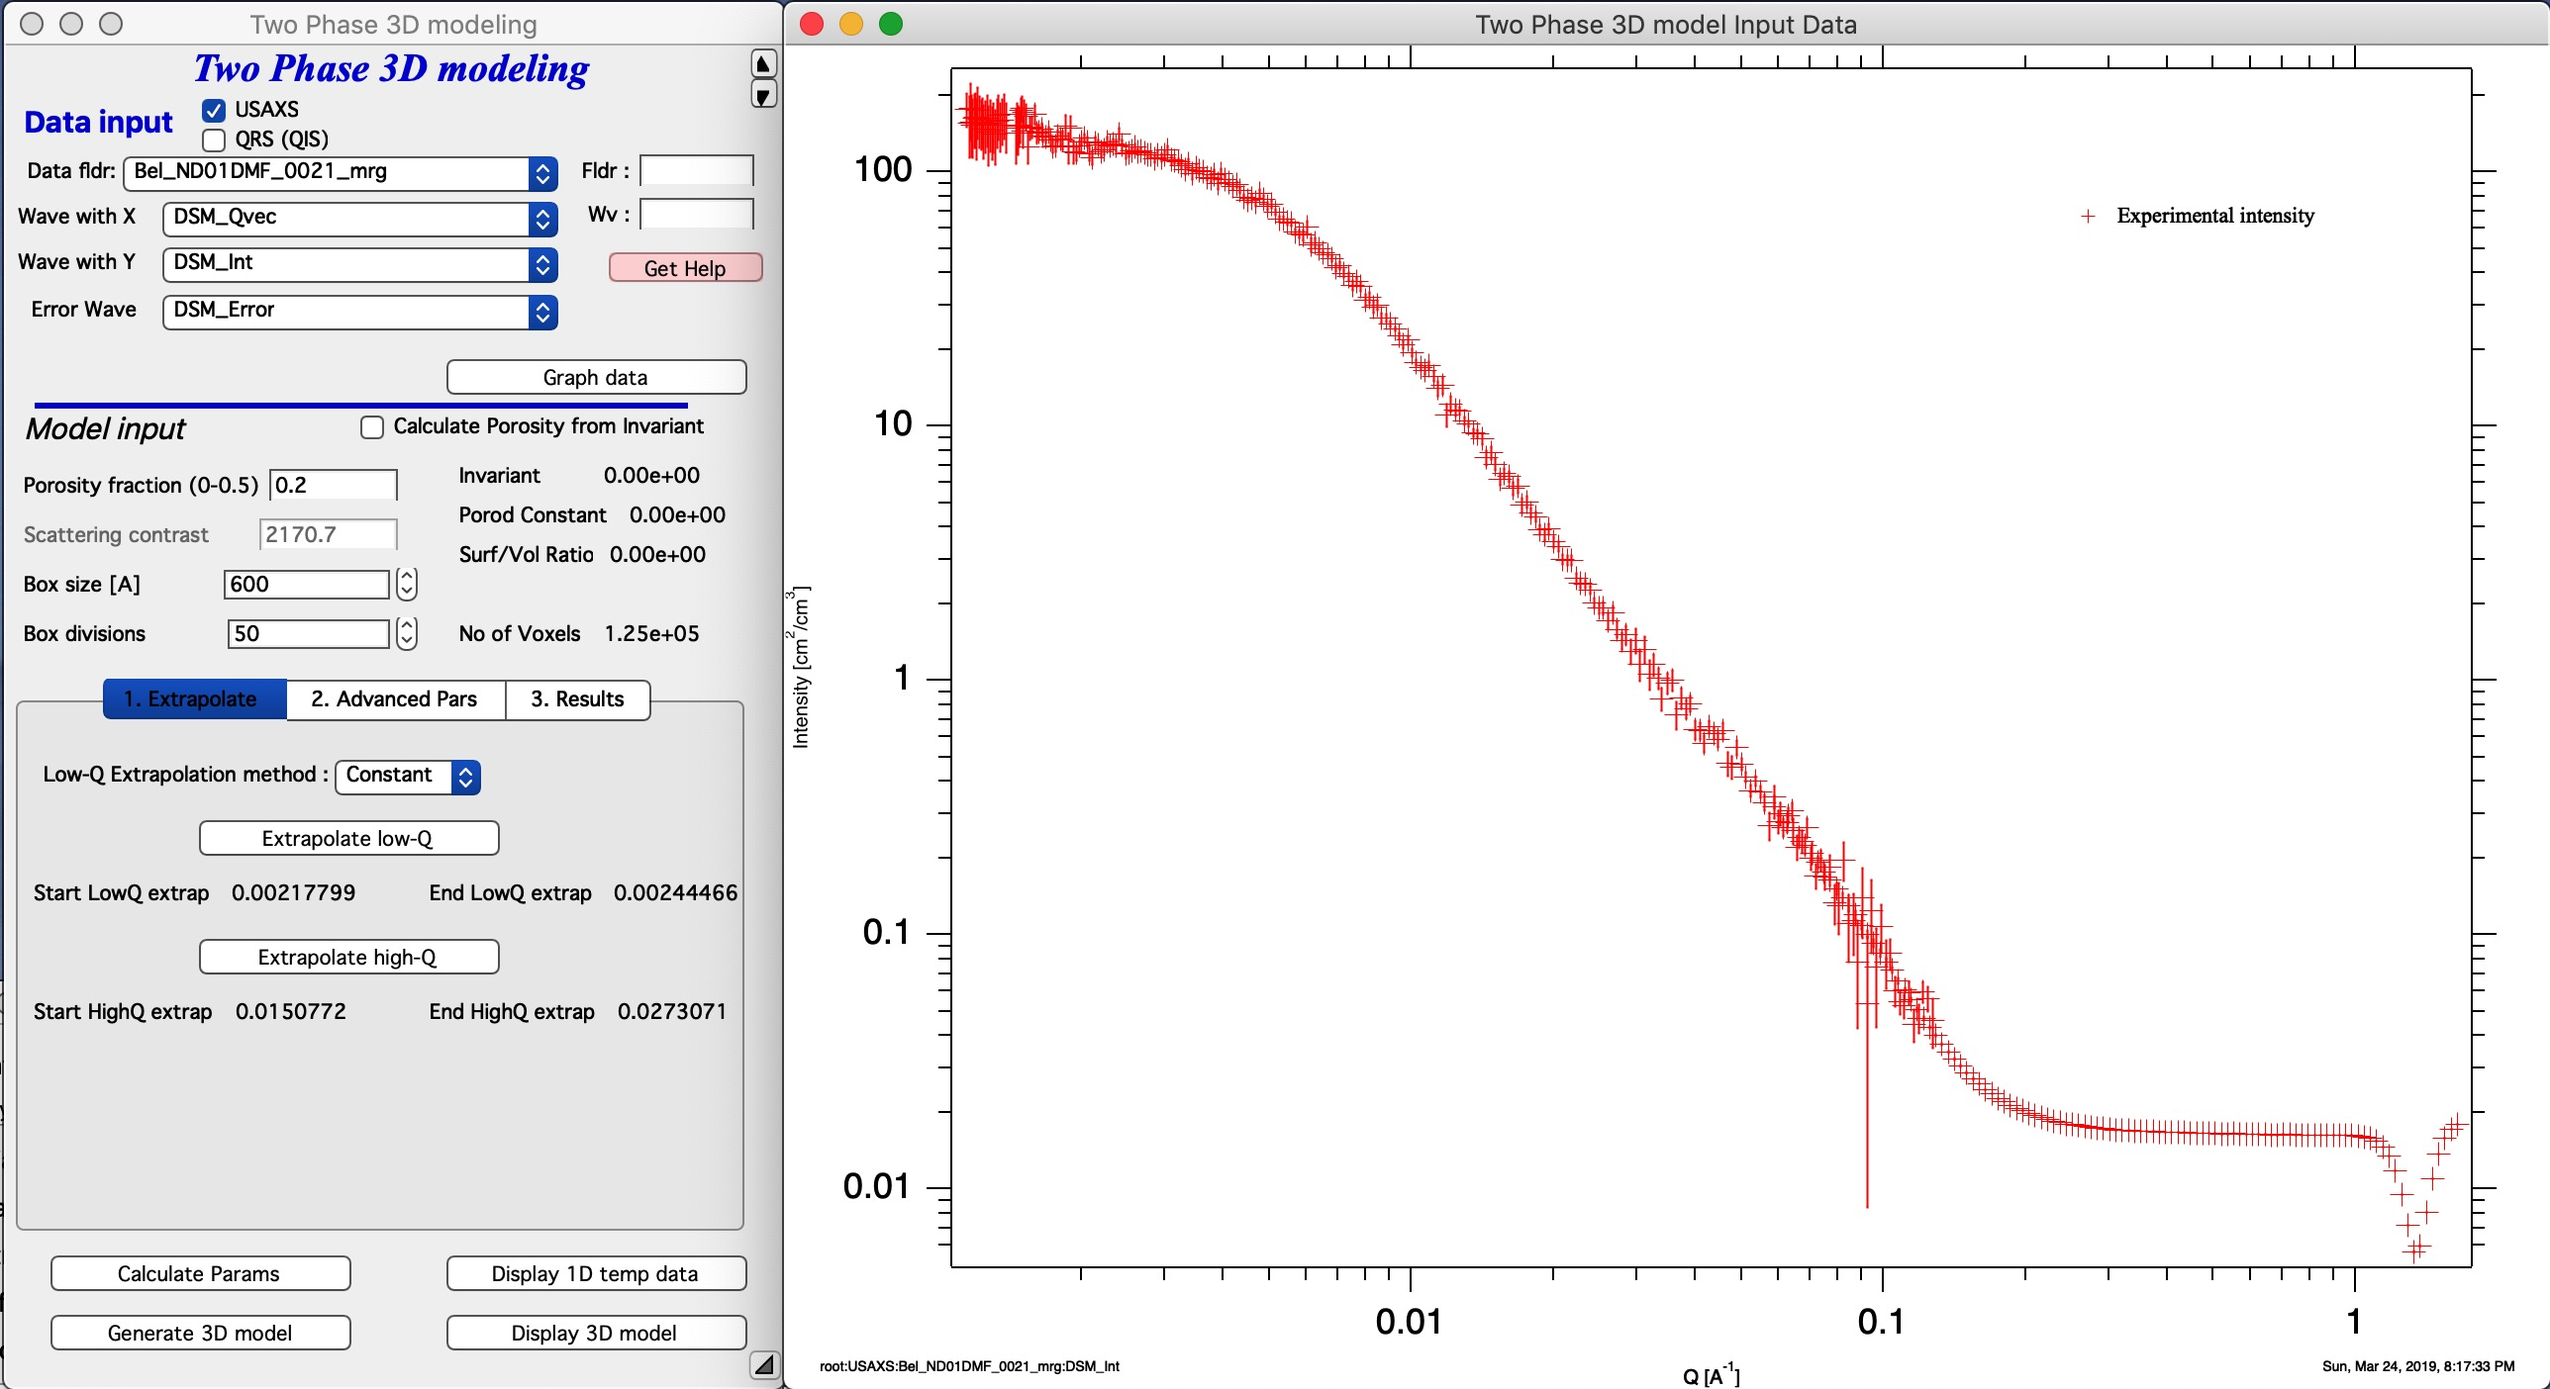
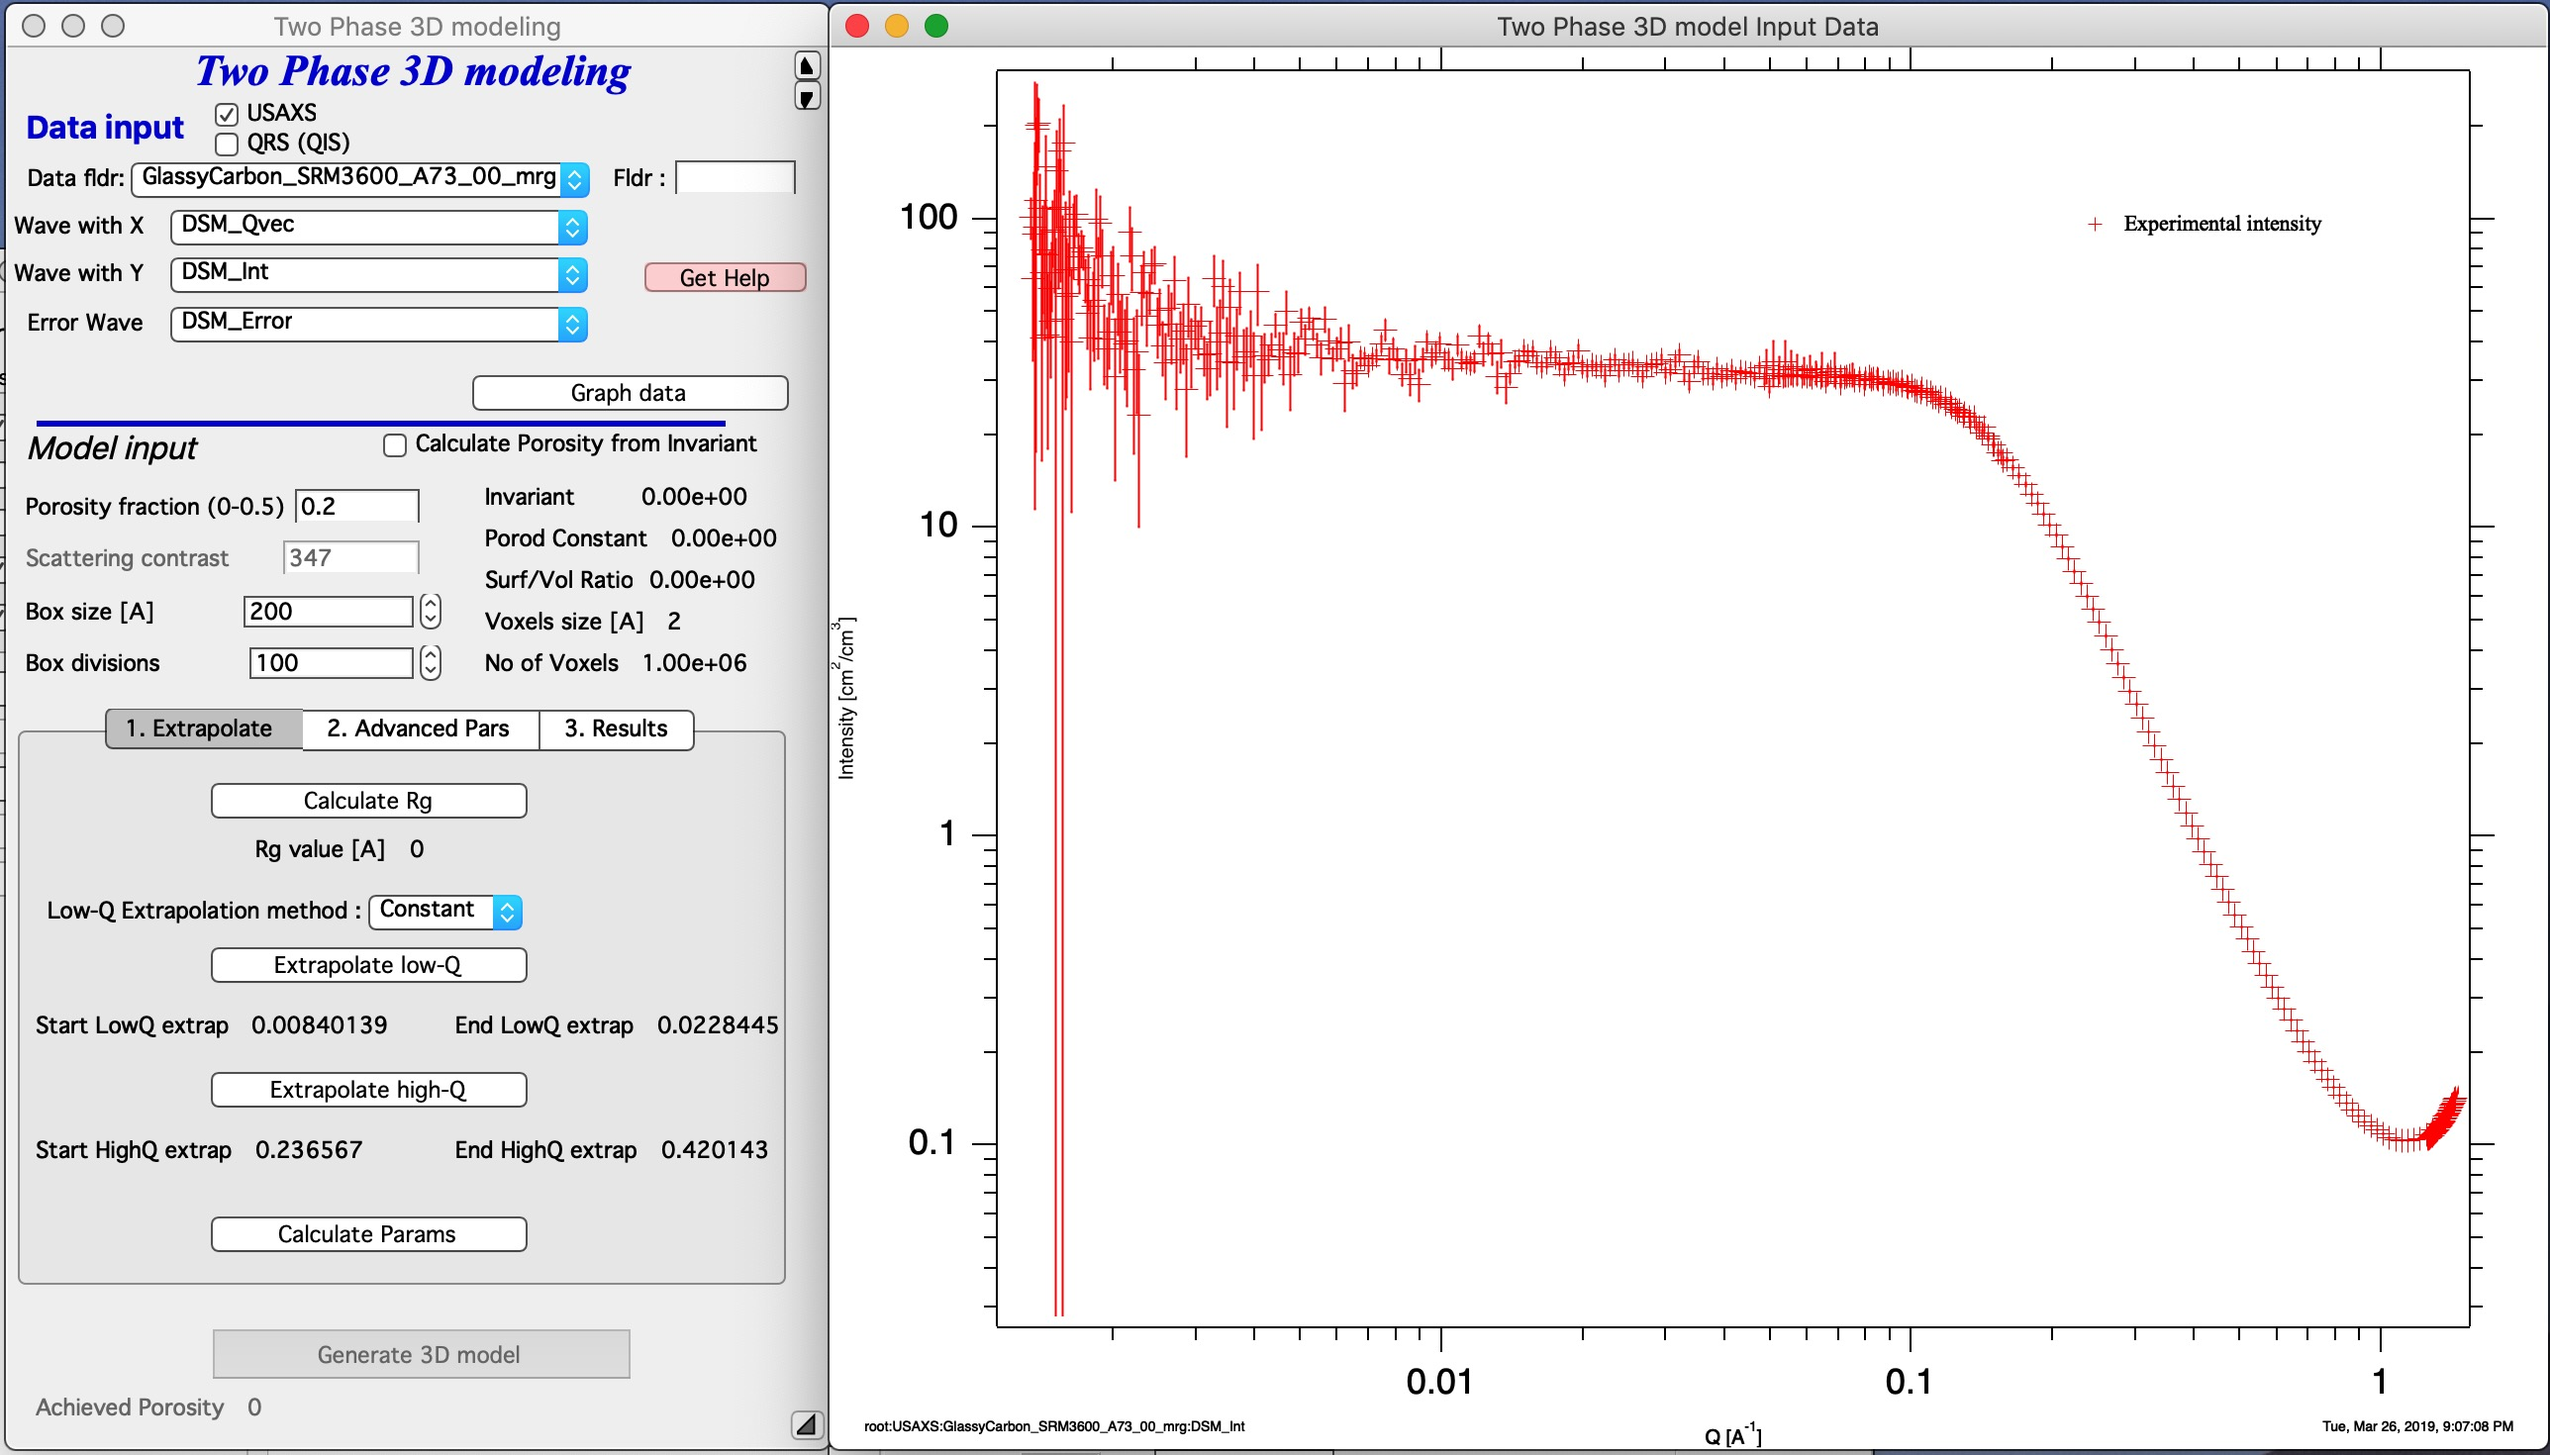
Fixes for Two PhaseSolid manual
Added new pictures and text reflecting current changes

diff --git a/docs/source/Irena/TwoPhaseSolid.rst b/docs/source/Irena/TwoPhaseSolid.rst
@@ -34,53 +34,124 @@ In the top part are :ref:`standard data selection tools <DataSelection>` . Pleas
 
 This is how the screen looks like with data selected. Button “\ **Graph Data**\ ” loads data into the tool and creates the graph.
 
-*Input some model values* - *Porosity* needs to be known or you can use scattering contrast and calculate Porosity from invariant. Invariant is calculated after extrapolations steps below, when Button *Calculate Params* is pressed. *Box size* is model volume size in Angstroms. For now this is cube, future versions should be able to have sides with different sizes. Select *Box divisions* - this is resolution you plan to use. 50 is reasonably fast on my machine, 100 is slower (still, may be minute or so). Above 100 you probably run out of memory and patience. Note: I have really *fast* notebook computer.
+*Input model values* :
+----------------------
 
-*Next step is to extrapolate data to Q=0 and Q=inf.* this is done by selecting q range at low end of data you want to model with cursors and using button “\ **Extrapolate low-Q**\ ”. Then select range of data at high q (data should follow Porod's law, power law should be -4). Using button “\ **Extrapolate high-Q**\ ” extrapolate data to high q values (Q=50).
+*Porosity* needs to be known or you can use scattering contrast and calculate Porosity from invariant. Invariant is calculated after extrapolations steps below, when Button *Calculate Params* is pressed.
 
-Push button *Calculate Params*, it will calculate some internal parameters and Invariant. If you do not push this button, you get garbage in generating 3D structure. When you push this button, Irena will also generate extrapolated intensity data to very small and very large q values to enable approximate integrations from 0 to infinity (the "Extrapolated intensity" curve in the graph).
+*Scattering contrast* if known and data are on absolute scale, code can calculate the porosity. Check the *Calculate Porosity from Invariant* and set contrast here. Invariant and Porosity is calculated after extrapolations steps below, when Button *Calculate Params* is pressed.
+
+*Box size* is model 3D volume size in Angstroms. For now this is cube, future versions should be able to have sides with different sizes. Note, that this is real physical size in Angstroms. You can make it large or small independent of size of your scatterers, but neither extreme seems that useful...
+
+*Box divisions* - this is resolution you plan to use. 50 is reasonably fast on my machine, 100 is slower (still, below one minute on my computer). Above 100 you may run out of memory and patience. Note: I have really *fast* notebook computer.
+
+On right hand side are some calculated values: *Invariant*, *Porod constant*, *Surface/Volume ratio*, *Voxel size of the model* and *Number of voxels in model*. Keep in mind, that calculation time is proportional to number of voxels in the model.
+
+Fitting procedure
+_________________
+
+*Calcualte Rg* - select with cursors the knee area where you want to fit the model. Push this button. This will calculate the Rg of the scatterers. This Rg is used in Tab 2 "Advanced Parameters" for maximum radius (it is set to 10x Rg).
 
 .. image:: media/TwoPhaseSolid3.jpg
    :align: center
    :width: 580px
 
-Note that the data needs to start with intensity flat (very much preferred)= no low-q power law slope, or data can be extended with low-q power law slope, but such data make not much sense. Also, high-q data are approximated by Porod's slope - it makes no sense to have different slope as this model assume this is solid phase and voids with smooth interfaces. This also tells you, that my example data are not suitable fro this model and this is pure abuse of those data... Need better example data soon.
-
-Now, back to size of the Box. In order to model properly the data you selected, you should have size of the box larger than size related to q\ :sub:`min`. These sizes are actually calculated on the second Tab - “\ **2. Advanced Pars**\ ”. In my case, the R\ :sub:`max` on that Tab is 16000A, which means I box size should be 30000A, may be? Now, it is not totally necessary as the solution can be found snesibly with much smaller boxes - but users will get simply tiny fraction fo space which si not meaningful representation of teh porous material.
-
-Push Button “\ **Calculate Params**\ ” which will calculate extrapolated intensity and other internal parameters. This is critically important.
-
-*This MAY BE SLOW* Push Button “\ **Generate 3D Model**\ ” which will generate the 3D Model and append intensity calculated from this model to the graph:
+*Next step is to extrapolate data to Q=0 and Q=inf.* this is done by selecting q range at low end of data you want to model with cursors and using button “\ **Extrapolate low-Q**\ ”. Then select range of data at high q (data should follow Porod's law, power law should be -4). Using button “\ **Extrapolate high-Q**\ ” extrapolate data to high q values (Q=50).
 
 .. image:: media/TwoPhaseSolid4.jpg
    :align: center
    :width: 580px
 
-As you can see, the fit is good at low-q (in extrapolation to q=0) and for about 1 decade in Q. With resolution of 50-100 that is probably the best one can expect. Note, that the model data are truncated - and there can still artifacts at high-q of the fitted range. Artifacts at higher q values are related to numerical integrations and for now I am unable to find them.
-
-
-*This MAY BE SLOW* Push Button “\ **Display 3D Model**\ ” which will display the 3D Model in Gizmo.
-
-
 .. image:: media/TwoPhaseSolid5.jpg
    :align: center
-   :width: 380px
+   :width: 580px
 
-Now, this is when you have large enough box size (30 000 A), you can make box size smaller and get higher magnification view (1500A) or even very high magnification (last 3D image, 600A):
 
+Push button *Calculate Params*, it will calculate all of internal parameters, Invariant, porosity (if selected) and other parameters. If you do not push this button, you cannot push button "Generate 3D model" as it is disabled. This is to prevent you from garbage generation of 3D structure. When you push this button, Irena will also generate extrapolated intensity data to very small and very large q values to enable approximate integrations from 0 to infinity (the "Extrapolated intensity" curve in the graph).
 
 .. image:: media/TwoPhaseSolid6.jpg
    :align: center
-   :width: 380px
+   :width: 580px
 
+Note that the data needs to start with intensity flat (very much preferred) = no low-q power law slope, or data can be extended with low-q power law slope, but such data make little sense. Also, high-q data are approximated by Porod's slope - it makes no sense to have different slope as this model assume this is solid phase and voids with smooth interfaces.
+
+Advanced Parameters
+___________________
+
+Internal parameters can be manually changed on the second tab.
 
 .. image:: media/TwoPhaseSolid7.jpg
    :align: center
    :width: 380px
 
-But representative value of these higher magnifications are questionable. Note: you see the interface between solid and void, I have not yet figured out how to fill the solid phase in Gizmo. Working on it...
+Select *Manual R/K parameters?* and you can change them. I am not sure how much that can help anything.
 
-*Display 1D temp data* will display various intermediate data (G(r) etc) same as SAXSMorph will do. Value of these curves is questionable and I will work on this more to make it more useful, if I can.
+3D data generation
+__________________
+
+Now you can push button *Generate 3D model*. It will take time, this test case about 45 seconds, most of it generating the Gaussian random fields. AT teh eend code back calculated from GRF function intensity and appends it to the graph. It is the blue line "TheoreticalIntensityDACF".
+As you can see, the fit is good at low-q (in extrapolation to q=0) and for about 1 decade in Q around Rg. With resolution of 50-100 that is probably the best one can expect. Note, that the model data are truncated - and there can still artifacts at high-q of the fitted range. Artifacts at higher q values are related to numerical integrations and for now I am unable to find them.
+
+
+.. image:: media/TwoPhaseSolid8.jpg
+   :align: center
+   :width: 580px
+
+*Achieved Porosity* value is calculated from fraction of the filled voxelgram. This value can be higher or lower than porosity calculated. Smaller the display volume is, more fluctuations there are, you are selecting smaller representative volume for the infinite space and so the volume you see will vary randomly. 
+
+
+Results display
+_______________
+
+Third tab *Results* has few buttons which can show users the results.
+
+*Display 1D temp data* this button shows graphs for internal functions, they are described in SAXSMorph paper and manual and are not really helpful for most readers.
+
+*Display 3D view* this will generate image of the Gaussian Random fields in 3D Gizmo plot. Users can choose to make filled phase either solid or voids using the checkbox.
+
+.. image:: media/TwoPhaseSolid9.jpg
+   :align: center
+   :width: 380px
+
+
+*Display 2D view* this will generate 23D cut through the 3D volume with slider at the top which enables users to skim through the slices. Since this is isotropic random field, any cut is as representative of the volume as other.
+
+
+.. image:: media/TwoPhaseSolid10.jpg
+   :align: center
+   :width: 380px
+
+
+Model resolution
+________________
+
+Now, back to size of the Box. In order to model properly the data you selected, you should have size of the box larger than size related to sizes of your scatterers - the code sets Rmax of modeled space to 10 x Rg value fitted. . These sizes are actually displayed on the second Tab - “\ **2. Advanced Pars**\ ”. In my case, the R\ :sub:`max` on that Tab is ~ 100A, which means I box size should be 300A or so. Now, it is not totally necessary as the solution can be found sensibly with much smaller boxes - but users will get simply tiny fraction fo space which is not meaningful representation of the porous material.
+
+OK, so here is the 3D image with 200A size for system with Rg of about 10A :
+
+.. image:: media/TwoPhaseSolid9.jpg
+   :align: center
+   :width: 380px
+
+
+
+Here is example with size of 100A, you can see more details, but less representative volume.
+
+
+.. image:: media/TwoPhaseSolid11.jpg
+   :align: center
+   :width: 380px
+
+And now, large box size (1000 A), it is representative, but little details. Of course, in this case the voxel size is approximately value of Rg which is basically loosing meaning.
+
+.. image:: media/TwoPhaseSolid12.jpg
+   :align: center
+   :width: 380px
+
+But representative value of these higher magnifications are questionable.
+
+
+
 
 
 
